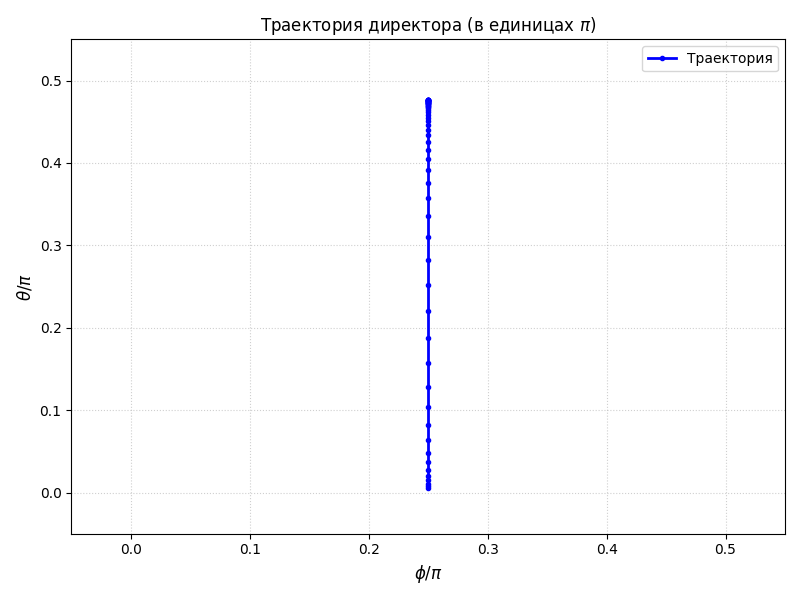
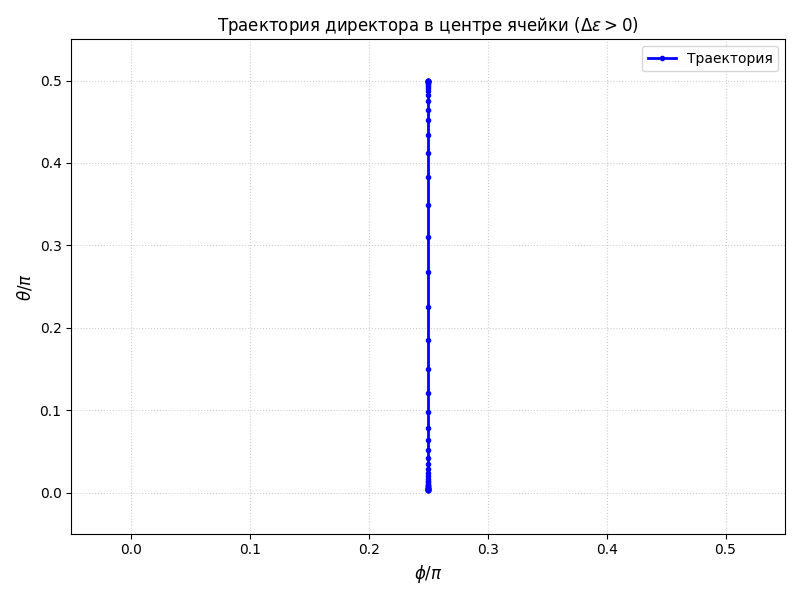
gg gg

diff --git a/small talk/main2.2.py b/small talk/main2.2.py
@@ -1,3 +1,4 @@
+'''
 import numpy as np
 import matplotlib.pyplot as plt
 
@@ -9,7 +10,7 @@ eps_delta = 5.0     #анизотропия
 
 phi_0 = 0
 phi_L = np.pi / 2
-theta_bc = np.pi / 2
+theta_bc = 0.0 #np.pi / 2
 def relax_profile(theta, phi, E, n_steps=5000):
     alpha = 0.005 * dz**2 
     
@@ -26,8 +27,7 @@ def relax_profile(theta, phi, E, n_steps=5000):
             dtheta = (theta[i+1] - theta[i-1]) / (2*dz)
             dphi = (phi[i+1] - phi[i-1]) / (2*dz)
             
-            residual_theta = K * d2theta - K * sin_th * cos_th * dphi**2 - \
-                             eps_delta * E**2 * sin_th * cos_th
+            residual_theta = K * d2theta - K * sin_th * cos_th * dphi**2 - eps_delta * E**2 * sin_th * cos_th
             residual_phi = sin_th**2 * d2phi + 2 * sin_th * cos_th * dtheta * dphi
             
             theta_new[i] += alpha * residual_theta
@@ -38,7 +38,7 @@ def relax_profile(theta, phi, E, n_steps=5000):
         phi_new[0] = phi_0
         phi_new[N] = phi_L
         
-        theta_new = np.clip(theta_new, 0.001, np.pi - 0.001)
+        theta_new = np.clip(theta_new, 0.0, np.pi / 2)
         
         theta = theta_new
         phi = phi_new
@@ -53,9 +53,13 @@ def relax_profile(theta, phi, E, n_steps=5000):
 
 z = np.linspace(0, L, N+1)
 
-theta = np.full(N+1, np.pi/2)
-perturbation = 0.1 * np.exp(-((z - 0.5)/0.15)**2) 
-theta = theta - perturbation
+
+theta = np.zeros(N+1)  # Заменяем np.full(N+1, np.pi/2) на нули
+perturbation = 0.1 * np.sin(np.pi * z / L)  # Правильное синусоидальное возмущение
+theta = theta + perturbation  # Добавляем, чтобы уйти от тривиального нуля
+#theta = np.full(N+1, np.pi/2)
+#perturbation = 0.1 * np.exp(-((z - 0.5)/0.15)**2) 
+#theta = theta - perturbation
 
 phi = np.linspace(phi_0, phi_L, N+1)
 
@@ -137,3 +141,115 @@ for idx, E_val in enumerate(E_to_save):
 
 # Удаляем 8-й пустой график
 fig.delaxes(axes[7])
+'''
+
+import numpy as np
+import matplotlib.pyplot as plt
+import matplotlib.ticker as ticker
+
+N = 100    # число слоев нематика           
+L = 1.0    # толщина
+dz = L / N
+K = 1.0    # одноконстантное приближение
+eps_delta = 5.0     # ИСПРАВЛЕНИЕ: положительная анизотропия (Delta eps > 0)
+
+phi_0 = 0
+phi_L = np.pi / 2
+theta_bc = 0.0 
+
+def relax_profile(theta, phi, E, n_steps=10000):
+    # Уменьшим шаг по времени для стабильности при сильных полях
+    alpha = 0.002 * dz**2 
+    
+    for step in range(n_steps):
+        theta_new = theta.copy()
+        phi_new = phi.copy()
+        
+        for i in range(1, N):
+            sin_th = np.sin(theta[i])
+            cos_th = np.cos(theta[i])
+            
+            d2theta = (theta[i+1] - 2*theta[i] + theta[i-1]) / dz**2
+            d2phi = (phi[i+1] - 2*phi[i] + phi[i-1]) / dz**2
+            dtheta = (theta[i+1] - theta[i-1]) / (2*dz)
+            dphi = (phi[i+1] - phi[i-1]) / (2*dz)
+            
+            # ИСПРАВЛЕНИЕ: Знак ПЛЮС перед eps_delta для Delta eps > 0
+            # Электрическое поле теперь тянет директор вверх (к theta = pi/2)
+            residual_theta = K * d2theta - K * sin_th * cos_th * dphi**2 + eps_delta * E**2 * sin_th * cos_th
+            residual_phi = sin_th**2 * d2phi + 2 * sin_th * cos_th * dtheta * dphi
+            
+            theta_new[i] += alpha * residual_theta
+            phi_new[i] += alpha * residual_phi
+        
+        # Граничные условия (жесткое сцепление на подложках)
+        theta_new[0] = theta_bc
+        theta_new[N] = theta_bc
+        phi_new[0] = phi_0
+        phi_new[N] = phi_L
+        
+        # Физическое ограничение углов
+        theta_new = np.clip(theta_new, 0.0, np.pi / 2)
+        
+        # Проверка сходимости
+        if step % 200 == 0:
+            if np.max(np.abs(theta_new - theta)) < 1e-7:
+                theta = theta_new
+                phi = phi_new
+                break
+                
+        theta = theta_new
+        phi = phi_new
+                
+    return theta, phi
+
+# Координатная сетка
+z = np.linspace(0, L, N+1)
+# Расширим диапазон полей, чтобы увидеть выход на насыщение (theta -> pi/2)
+E_values = np.linspace(0, 30, 60)
+
+theta_mid = []
+phi_mid = []
+profiles = {}
+# Ключевые точки для построения профилей (включая сильное поле 30)
+E_to_save = [0, 2, 5, 10, 15, 20, 30]
+
+for E in E_values:
+    # Начальный сброс для каждого E: ЖK изначально плоский + малый шум для старта
+    theta_init = 0.01 * np.sin(np.pi * z / L) 
+    phi_init = np.linspace(phi_0, phi_L, N+1)
+    
+    theta_res, phi_res = relax_profile(theta_init, phi_init, E, n_steps=15000)
+    
+    for E_save in E_to_save:
+        if abs(E - E_save) < 0.3:
+            profiles[E_save] = (theta_res.copy(), phi_res.copy())
+            break
+    
+    mid = N // 2
+    theta_mid.append(theta_res[mid])
+    phi_mid.append(phi_res[mid])
+
+# =========================================================
+# ВИЗУАЛИЗАЦИЯ 1: ТРАЕКТОРИЯ (В ЕДИНИЦАХ PI)
+# =========================================================
+plt.figure(figsize=(8, 6))
+
+phi_mid_pi = np.array(phi_mid) / np.pi
+theta_mid_pi = np.array(theta_mid) / np.pi
+
+plt.plot(phi_mid_pi, theta_mid_pi, 'b-o', linewidth=2, markersize=3, label='Траектория')
+plt.xlabel(r'$\phi / \pi$', fontsize=12)
+plt.ylabel(r'$\theta / \pi$', fontsize=12)
+plt.title('Траектория директора в центре ячейки ($\Delta\epsilon > 0$)', fontsize=12)
+plt.grid(True, linestyle=':', alpha=0.6)
+plt.legend()
+
+ax = plt.gca()
+ax.xaxis.set_major_locator(ticker.MultipleLocator(0.1))
+ax.yaxis.set_major_locator(ticker.MultipleLocator(0.1))
+plt.xlim(-0.05, 0.55)
+plt.ylim(-0.05, 0.55)
+plt.tight_layout()
+plt.savefig('plotforce.png')
+plt.close()

diff --git a/small talk/normalcode15.py b/small talk/normalcode15.py
@@ -1,0 +1,109 @@
+import numpy as np
+import matplotlib.pyplot as plt
+
+# Параметры сетки
+Nx, Ny, Nz = 8, 8, 16  # Увеличим разрешение по Z для гладкости профиля
+S_0 = 1.0              # Скалярный параметр порядка
+
+# Граничные углы директора на подложках
+# Нижняя подложка (z = 0): лежит в плоскости вдоль X (theta=0, phi=0)
+theta_bottom, phi_bottom = 0.0, 0.0
+# Верхняя подложка (z = Nz-1): лежит в плоскости вдоль Y (theta=0, phi=pi/2)
+theta_top, phi_top = 0.0, np.pi / 2
+
+def angles_to_Q_components(theta, phi, S=S_0):
+    """Преобразует физические углы theta и phi в 5 компонент тензора Q"""
+    nx = np.cos(theta) * np.cos(phi)
+    ny = np.cos(theta) * np.sin(phi)
+    nz = np.sin(theta)
+    
+    Qxx = S * (nx*nx - 1.0/3.0)
+    Qyy = S * (ny*ny - 1.0/3.0)
+    Qxy = S * (nx*ny)
+    Qxz = S * (nx*nz)
+    Qyz = S * (ny*nz)
+    return np.array([Qxx, Qyy, Qxy, Qxz, Qyz])
+
+def Q_to_angles(Q_vector, S=S_0):
+    """Преобразует 5 компонент тензора Q обратно в углы theta и phi"""
+    Qxx, Qyy, Qxy, Qxz, Qyz = Q_vector
+    Qzz = -(Qxx + Qyy)
+    
+    # Расчет азимутального угла phi
+    phi = 0.5 * np.arctan2(2.0 * Qxy, Qxx - Qyy)
+    
+    # Расчет полярного угла theta (с ограничением под аргументом арксинуса от ошибок округления)
+    sin2_theta = Qzz / S + 1.0 / 3.0
+    sin2_theta = np.clip(sin2_theta, 0.0, 1.0)
+    theta = np.arcsin(np.sqrt(sin2_theta))
+    
+    return theta, phi
+
+# --- 1. ГЕНЕРАЦИЯ ГРАНИЧНЫХ СОСТОЯНИЙ ДЛЯ NEB ---
+Q_start_3d = np.zeros((Nx, Ny, Nz, 5))
+Q_end_3d = np.zeros((Nx, Ny, Nz, 5))
+
+for z_idx in range(Nz):
+    # Доля расстояния от нижней пластины (от 0.0 до 1.0)
+    fraction = z_idx / (Nz - 1)
+    
+    # НАЧАЛЬНОЕ СОСТОЯНИЕ (Поле E = 0): 
+    # Директор плавно закручивается от оси X к оси Y, оставаясь в плоскости пластин (theta = 0)
+    th_start = 0.0
+    ph_start = phi_bottom + fraction * (phi_top - phi_bottom)
+    Q_start_3d[:, :, z_idx, :] = angles_to_Q_components(th_start, ph_start)
+    
+    # КОНЕЧНОЕ СОСТОЯНИЕ (Поле E -> бесконечность):
+    # В объеме директор встает строго вертикально (theta = pi/2). 
+    # На самых границах сильное сцепление удерживает углы подложек.
+    if z_idx == 0:
+        th_end, ph_end = theta_bottom, phi_bottom
+    elif z_idx == Nz - 1:
+        th_end, ph_end = theta_top, phi_top
+    else:
+        th_end = np.pi / 2  # Молекулы встали по полю вдоль Z
+        ph_end = 0.0        # При вертикальной ориентации азимутальный угол вырождается
+        
+    Q_end_3d[:, :, z_idx, :] = angles_to_Q_components(th_end, ph_end)
+
+# --- 2. ЭМУЛЯЦИЯ РЕЗУЛЬТАТА МЕТОДА NEB ---
+# (В реальном расчете здесь вызывается функция run_3d_lc_neb из прошлого ответа)
+# Для демонстрации построения траектории создадим промежуточные имиджи интерполяцией
+num_images = 1000
+# Форма пути: (num_images + 2, Nx, Ny, Nz, 5)
+simulated_path = np.array([Q_start_3d + (Q_end_3d - Q_start_3d) * (i / (num_images + 1)) for i in range(num_images + 2)])
+
+# --- 3. ИЗВЛЕЧЕНИЕ ТРАЕКТОРИИ ДЛЯ ЗАДАННОГО Z ---
+# Задаем индекс координаты z (например, середина слоя ячейки)
+z_target_idx = Nz // 2 
+# Выберем центральный узел по осям X и Y (в однородной по площади задаче они эквивалентны)
+x_target, y_target = Nx // 2, Ny // 2
+
+theta_trajectory = []
+phi_trajectory = []
+
+# Проходим по всем имиджам упругой ленты (от начального до конечного)
+for img_idx in range(num_images + 2):
+    Q_at_point = simulated_path[img_idx, x_target, y_target, z_target_idx, :]
+    theta, phi = Q_to_angles(Q_at_point)
+    
+    theta_trajectory.append(np.degrees(theta))
+    phi_trajectory.append(np.degrees(phi))
+
+# --- 4. ВИЗУАЛИЗАЦИЯ ТРАЕКТОРИИ ПЕРЕХОДА ---
+plt.figure(figsize=(8, 6))
+
+# Измените 'o-' на '-' (чтобы убрать маркеры у линии) или добавьте ms=4 для уменьшения точек линии
+plt.plot(phi_trajectory, theta_trajectory, 'o-', color='royalblue', linewidth=2, ms=1, label='Путь NEB')
+
+# Параметр s=30 делает маркеры начального и конечного состояний значительно меньше (было 150)
+plt.scatter(phi_trajectory[0], theta_trajectory[0], color='green', s=30, zorder=5, label='Старт (E=0)')
+plt.scatter(phi_trajectory[-1], theta_trajectory[-1], color='red', s=30, zorder=5, label='Финиш (E $\to \infty$)')
+
+plt.xlabel('Азимутальный угол $\phi$ (градусы)', fontsize=12)
+plt.ylabel('Полярный угол подъема $\theta$ (градусы)', fontsize=12)
+plt.xlim(-5, 95)
+plt.ylim(-5, 95)
+plt.grid(True, linestyle='--', alpha=0.6)
+plt.legend(loc='best')
+plt.savefig('norm.png')

diff --git a/small talk/Вова.py b/small talk/Вова.py
@@ -1,0 +1,123 @@
+import numpy as np
+import matplotlib.pyplot as plt
+
+N = 100    # число слоев нематика           
+L = 1.0    # толщина
+dz = L / N
+K = 1.0   #jlyjrjycnfynjyjt ghb,kb;tybt
+eps_delta = 5.0     #анизотропия
+
+phi_0 = 0
+phi_L = np.pi / 2
+theta_bc = np.pi / 2
+def relax_profile(theta, phi, E, n_steps=5000):
+    alpha = 0.005 * dz**2 
+    
+    for step in range(n_steps):
+        theta_new = theta.copy()
+        phi_new = phi.copy()
+        
+        for i in range(1, N):
+            sin_th = np.sin(theta[i])
+            cos_th = np.cos(theta[i])
+            
+            d2theta = (theta[i+1] - 2*theta[i] + theta[i-1]) / dz**2
+            d2phi = (phi[i+1] - 2*phi[i] + phi[i-1]) / dz**2
+            dtheta = (theta[i+1] - theta[i-1]) / (2*dz)
+            dphi = (phi[i+1] - phi[i-1]) / (2*dz)
+            
+            residual_theta = K * d2theta - K * sin_th * cos_th * dphi**2 - \
+                             eps_delta * E**2 * sin_th * cos_th
+            residual_phi = sin_th**2 * d2phi + 2 * sin_th * cos_th * dtheta * dphi
+            
+            theta_new[i] += alpha * residual_theta
+            phi_new[i] += alpha * residual_phi
+        
+        theta_new[0] = theta_bc
+        theta_new[N] = theta_bc
+        phi_new[0] = phi_0
+        phi_new[N] = phi_L
+        
+        theta_new = np.clip(theta_new, 0.001, np.pi - 0.001)
+        
+        theta = theta_new
+        phi = phi_new
+        
+        if step % 1000 == 0 and step > 0:
+            if np.max(np.abs(theta_new - theta)) < 1e-8:
+                break
+                
+    return theta, phi
+
+
+
+z = np.linspace(0, L, N+1)
+
+theta = np.full(N+1, np.pi/2)
+perturbation = 0.0001 * np.exp(-((z - 0.5)/0.15)**2) 
+theta = theta - perturbation
+
+phi = np.linspace(phi_0, phi_L, N+1)
+
+E_values = np.linspace(0, 12, 60)
+
+theta_mid = []
+phi_mid = []
+
+# ИСПРАВЛЕНИЕ: сохраняем профили для ключевых значений E
+profiles = {}
+E_to_save = [0, 2, 4, 6, 8, 10, 12, 16, 18, 20, 22, 24]
+
+for E in E_values:
+    theta, phi = relax_profile(theta, phi, E, n_steps=3000)
+    
+    # Сохраняем профили для определённых E
+    for E_save in E_to_save:
+        if abs(E - E_save) < 0.1:  # ближайшее значение
+            profiles[E_save] = (theta.copy(), phi.copy())
+            break
+    
+    mid = N // 2
+    theta_mid.append(theta[mid])
+    phi_mid.append(phi[mid])
+
+# =========================================================
+# ВИЗУАЛИЗАЦИЯ 1: ТРАЕКТОРИЯ (В ЕДИНИЦАХ PI)
+# =========================================================
+plt.figure(figsize=(8, 6))
+
+# Переводим массивы углов в единицы pi
+phi_mid_pi = np.array(phi_mid) / np.pi
+theta_mid_pi = np.array(theta_mid) / np.pi
+
+plt.plot(phi_mid_pi, theta_mid_pi, 'b-o', linewidth=2, markersize=3, label='Траектория')
+
+# Стрелки направления с учетом масштаба pi
+for i in range(0, len(phi_mid_pi)-1, 5):
+    plt.arrow(phi_mid_pi[i], theta_mid_pi[i], 
+             0.2*(phi_mid_pi[i+1]-phi_mid_pi[i]), 0.2*(theta_mid_pi[i+1]-theta_mid_pi[i]),
+             head_width=0.01, fc='green', ec='green', alpha=0.6)
+
+# Граничные условия в единицах pi
+plt.scatter([phi_0/np.pi, phi_L/np.pi], [theta_bc/np.pi, theta_bc/np.pi], 
+            color='red', s=50, zorder=5, label='Граничные условия')
+
+# Настройка названий осей
+plt.xlabel(r'$\phi \ / \ \pi$', fontsize=12)
+plt.ylabel(r'$\theta \ / \ \pi$', fontsize=12)
+plt.title('Траектория директора в центре слоя', fontsize=12)
+
+# Сетка и метки в долях pi (от 0 до 0.5)
+ticks = [0, 0.1, 0.2, 0.3, 0.4, 0.5]
+tick_labels = ['0', '0.1', '0.2', '0.3', '0.4', '0.5']
+
+plt.xticks(ticks, tick_labels)
+plt.yticks(ticks, tick_labels)
+
+plt.xlim(-0.05, 0.55)
+plt.ylim(0.0, 0.55)
+
+plt.grid(True, linestyle=':', alpha=0.6)
+plt.legend()
+plt.tight_layout()
+plt.savefig('Vova.png')
